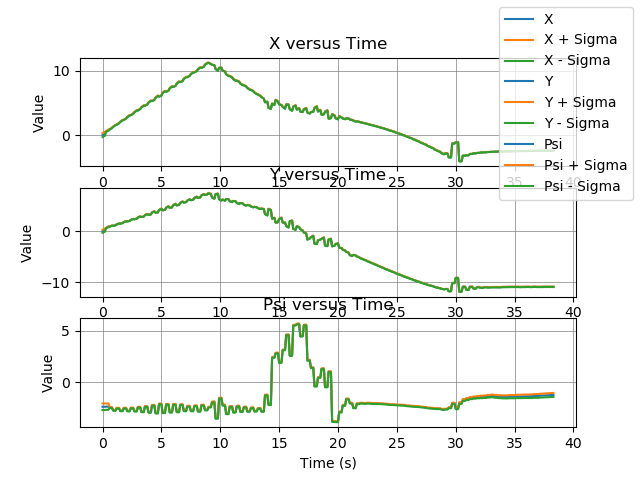
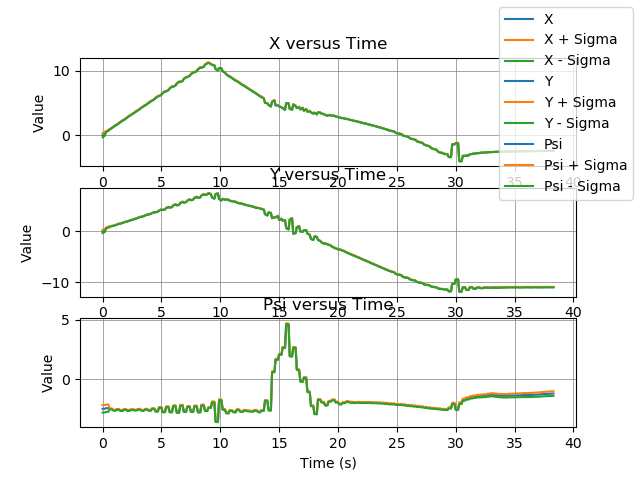
change wl to wr and reverse

diff --git a/src/py_server_3/py_server_3/server_task1.py b/src/py_server_3/py_server_3/server_task1.py
@@ -88,9 +88,9 @@ class Server(Node):
         plt.ylabel("Y-Axis")
 
         # Landmarks
-        plt.plot(self.L0[0, 0], self.L0[1, 0], linestyle='None', marker="o", label='Landmark 0')
-        plt.plot(self.L1[0, 0], self.L1[1, 0], linestyle='None', marker="o", label='Landmark 1')
-        plt.plot(self.L2[0, 0], self.L2[1, 0], linestyle='None', marker="o", label='Landmark 2')
+        plt.plot(self.L0[0, 0], self.L0[1, 0], linestyle='None', marker="o", label='Landmark 1')
+        plt.plot(self.L1[0, 0], self.L1[1, 0], linestyle='None', marker="o", label='Landmark 2')
+        plt.plot(self.L2[0, 0], self.L2[1, 0], linestyle='None', marker="o", label='Landmark 3')
 
         # Initialization for animation and text labels
         predicted_coordinates = []
@@ -229,15 +229,15 @@ class Server(Node):
         p_y2 = np.sqrt(self.P_update[8, 8, :])
 
         # Plot the landmark coordinate with +/- standard deviation
-        axs6[0].plot(tspan2, self.L0_update[0, :], label="LM0")
-        axs6[0].plot(tspan2, self.L0_update[0, :] + p_x0, label="LM0 + Sigma")
-        axs6[0].plot(tspan2, self.L0_update[0, :] - p_x0, label="LM0 - Sigma")
-        axs6[0].plot(tspan2, self.L1_update[0, :], label="LM1")
-        axs6[0].plot(tspan2, self.L1_update[0, :] + p_x1, label="LM1 + Sigma")
-        axs6[0].plot(tspan2, self.L1_update[0, :] - p_x1, label="LM1 - Sigma")
-        axs6[0].plot(tspan2, self.L2_update[0, :], label="LM2")
-        axs6[0].plot(tspan2, self.L2_update[0, :] + p_x2, label="LM2 + Sigma")
-        axs6[0].plot(tspan2, self.L2_update[0, :] - p_x2, label="LM2 - Sigma")
+        axs6[0].plot(tspan2, self.L0_update[0, :], label="LM1")
+        axs6[0].plot(tspan2, self.L0_update[0, :] + p_x0, label="LM1 + Sigma")
+        axs6[0].plot(tspan2, self.L0_update[0, :] - p_x0, label="LM1 - Sigma")
+        axs6[0].plot(tspan2, self.L1_update[0, :], label="LM2")
+        axs6[0].plot(tspan2, self.L1_update[0, :] + p_x1, label="LM2 + Sigma")
+        axs6[0].plot(tspan2, self.L1_update[0, :] - p_x1, label="LM2 - Sigma")
+        axs6[0].plot(tspan2, self.L2_update[0, :], label="LM3")
+        axs6[0].plot(tspan2, self.L2_update[0, :] + p_x2, label="LM3 + Sigma")
+        axs6[0].plot(tspan2, self.L2_update[0, :] - p_x2, label="LM3 - Sigma")
         axs6[0].set_title("X versus Time")
         axs6[0].set_xlabel("Time (s)")
         axs6[0].set_ylabel("Value")
@@ -284,7 +284,7 @@ class Server(Node):
         self.ts1 = ts
 
         # Prediction
-        self.step_calculation(msg.velocity[0], msg.velocity[1], round(self.tspan1[-1] - self.tspan1[-2], 4))
+        self.step_calculation(msg.velocity[1], msg.velocity[0], round(self.tspan1[-1] - self.tspan1[-2], 4))
 
     def sensor_callback(self, msg):
         # Increase the counter and process the update

diff --git a/src/py_server_3/py_server_3/server_task2.py b/src/py_server_3/py_server_3/server_task2.py
@@ -30,8 +30,8 @@ class Server(Node):
         # Temporary variables
         self.x = 0.0
         self.y = 0.0
-        # self.yaw = 0.0
-        self.yaw = -3 * pi / 4
+        self.yaw = 0.0
+        # self.yaw = -4.8 * pi / 6
         self.P = np.eye(3) * 0.1
         self.Q = np.zeros((3, 3))
         self.A = np.eye(3)
@@ -86,9 +86,9 @@ class Server(Node):
         plt.ylabel("Y-Axis")
 
         # Landmarks
-        plt.plot(L0[0, 0], L0[1, 0], linestyle='None', marker="o", label='Landmark 0')
-        plt.plot(L1[0, 0], L1[1, 0], linestyle='None', marker="o", label='Landmark 1')
-        plt.plot(L2[0, 0], L2[1, 0], linestyle='None', marker="o", label='Landmark 2')
+        plt.plot(L0[0, 0], L0[1, 0], linestyle='None', marker="o", label='Landmark 1')
+        plt.plot(L1[0, 0], L1[1, 0], linestyle='None', marker="o", label='Landmark 2')
+        plt.plot(L2[0, 0], L2[1, 0], linestyle='None', marker="o", label='Landmark 3')
 
         # Initialization for animation and text labels
         predicted_coordinates = []
@@ -248,12 +248,12 @@ class Server(Node):
         self.ts1 = ts
 
         # Prediction
-        self.step_calculation(msg.velocity[0], msg.velocity[1], round(self.tspan1[-1] - self.tspan1[-2], 4))
+        self.step_calculation(msg.velocity[1], msg.velocity[0], round(self.tspan1[-1] - self.tspan1[-2], 4))
 
     def sensor_callback(self, msg):
         # Increase the counter and process the update
         self.sensor_count += 1
-        self.get_logger().info('Sensor says: #%d "%s"' % (self.sensor_count, msg.position))
+        # self.get_logger().info('Sensor says: #%d "%s"' % (self.sensor_count, msg.position))
 
         # Calculate dt and save the timestamp
         ts = msg.header.stamp.sec + msg.header.stamp.nanosec / 1e+9
